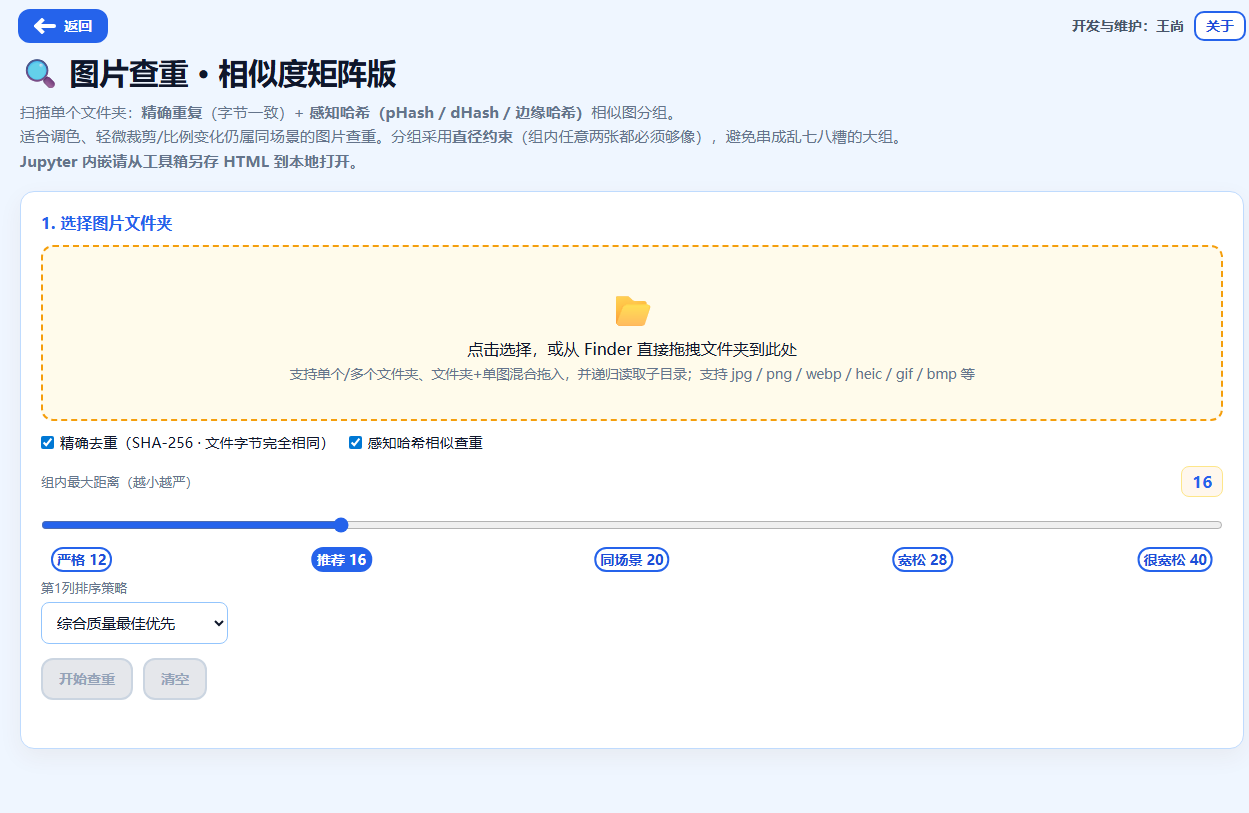
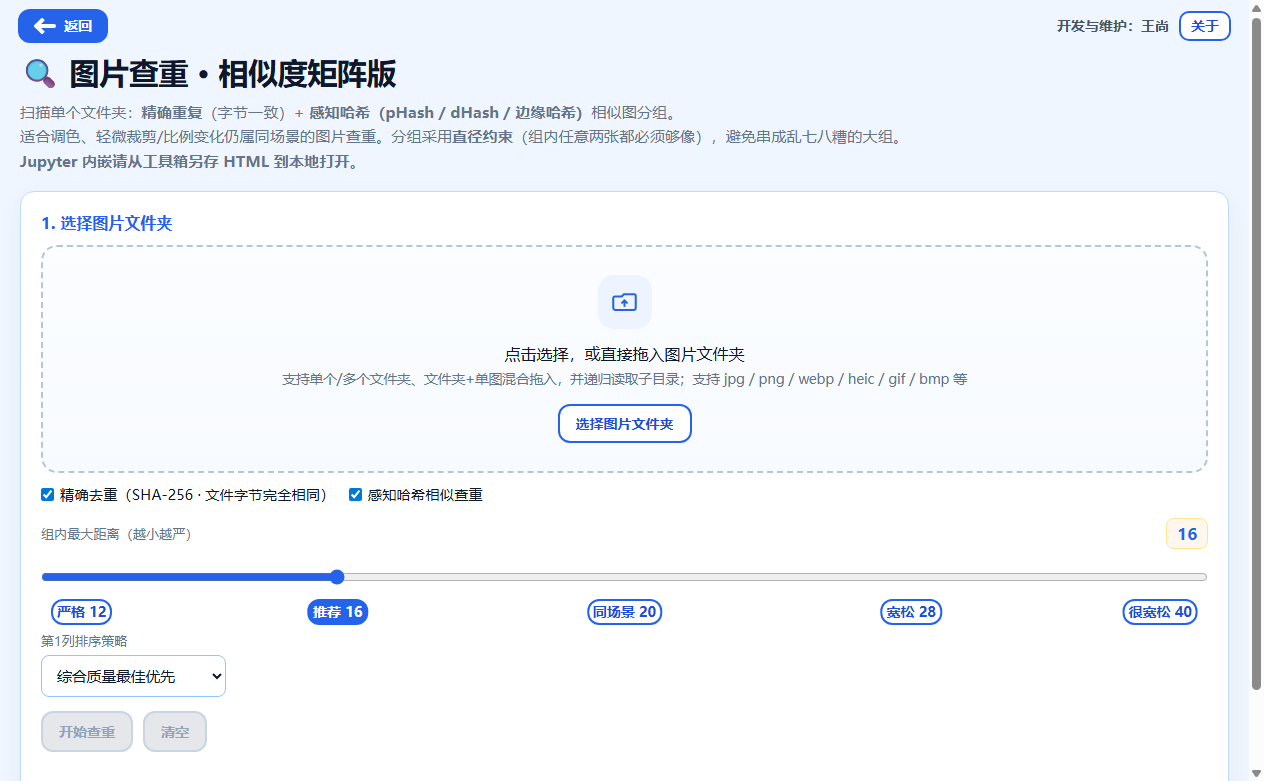
更新 1.4.5 下载页和界面截图

diff --git a/index.html b/index.html
@@ -3,7 +3,7 @@
 <head>
   <meta charset="utf-8">
   <meta name="viewport" content="width=device-width, initial-scale=1">
-  <meta name="description" content="图片处理工具箱 1.4.4：格式转换、图片裁剪、低像素清理、图片查重、图片调色、评分与批量命名。">
+  <meta name="description" content="图片处理工具箱 1.4.5：格式转换、图片裁剪、低像素清理、图片查重、图片调色、评分与批量命名。">
   <meta name="author" content="王尚">
   <meta property="og:title" content="图片处理工具箱">
   <meta property="og:description" content="一套面向图片整理工作的离线工具。开发和维护：王尚。">
@@ -115,10 +115,10 @@
         <h1>让大量图片整理工作更简单</h1>
         <p class="lead">格式转换、自动裁剪、低像素清理、图片查重、调色、评分和批量命名集中在一个工具箱中。安装后即可在电脑本地使用。</p>
         <div class="hero-actions">
-          <a class="button download" href="https://github.com/ShawnPIKAQIU/image-filter-tools/releases/download/v1.4.4/Image-Filter-Tools-1.4.4-Setup.exe">下载 Windows 版</a>
-          <a class="button" href="https://github.com/ShawnPIKAQIU/image-filter-tools/releases/download/v1.4.4/Image-Filter-Tools-1.4.4-Mac-Build-Project.zip">下载 Mac 打包项目</a>
+          <a class="button download" href="https://github.com/ShawnPIKAQIU/image-filter-tools/releases/download/v1.4.5/Image-Filter-Tools-1.4.5-Setup.exe">下载 Windows 版</a>
+          <a class="button" href="https://github.com/ShawnPIKAQIU/image-filter-tools/releases/download/v1.4.5/Image-Filter-Tools-1.4.5-Mac-Build-Project.zip">下载 Mac 打包项目</a>
           <a class="button" href="#screenshots">查看软件界面</a>
-          <span class="version">版本 1.4.4</span>
+          <span class="version">版本 1.4.5</span>
         </div>
       </div>
       <div class="hero-art"><img src="app-icon.png" alt="图片处理工具箱应用图标"></div>
@@ -143,20 +143,20 @@
       <div class="shell">
         <div class="download-panel">
           <div>
-            <h3>图片处理工具箱 1.4.4</h3>
+            <h3>图片处理工具箱 1.4.5</h3>
             <p>适用于 Windows 10 / 11。下载完成后运行安装程序，即可开始使用。</p>
-            <div class="download-meta">SHA-256：<code>0C7DCCD5B9F44D07BE15D9A1915EB76287346AFAE2DF502492046309D1C3521D</code></div>
+            <div class="download-meta">SHA-256：<code>AD736C0A28C36B13E4B0EEB59791371C4AFBF1646945D90E8FE47CBE467D5F6B</code></div>
           </div>
-          <a class="button download" href="https://github.com/ShawnPIKAQIU/image-filter-tools/releases/download/v1.4.4/Image-Filter-Tools-1.4.4-Setup.exe">下载安装包</a>
+          <a class="button download" href="https://github.com/ShawnPIKAQIU/image-filter-tools/releases/download/v1.4.5/Image-Filter-Tools-1.4.5-Setup.exe">下载安装包</a>
         </div>
         <div class="notice">当前安装包尚未购买商业数字签名，部分电脑首次运行时可能显示“未知发布者”提示。请确认下载网址、版本号和上方校验值后再安装。</div>
         <div class="download-panel" style="margin-top: 18px;">
           <div>
-            <h3>Mac 打包项目 1.4.4</h3>
+            <h3>Mac 打包项目 1.4.5</h3>
             <p>这是用于在 Mac 电脑上生成安装包的项目文件，不是双击即可安装的成品。需要先在 Mac 上安装 Node.js 和 Xcode 命令行工具，再按项目内说明完成打包。</p>
             <div class="download-meta">适用于需要自行制作 Mac 安装包的人员。</div>
           </div>
-          <a class="button" href="https://github.com/ShawnPIKAQIU/image-filter-tools/releases/download/v1.4.4/Image-Filter-Tools-1.4.4-Mac-Build-Project.zip">下载 Mac 打包项目</a>
+          <a class="button" href="https://github.com/ShawnPIKAQIU/image-filter-tools/releases/download/v1.4.5/Image-Filter-Tools-1.4.5-Mac-Build-Project.zip">下载 Mac 打包项目</a>
         </div>
       </div>
     </section>

diff --git a/README.md b/README.md
@@ -2,6 +2,6 @@
 
 图片处理工具箱 Windows 安装版与 Mac 打包项目下载页面。
 
-- 当前版本：1.4.4
+- 当前版本：1.4.5
 - 开发和维护：王尚
 - 官方页面：https://shawnpikaqiu.github.io/image-filter-tools/
